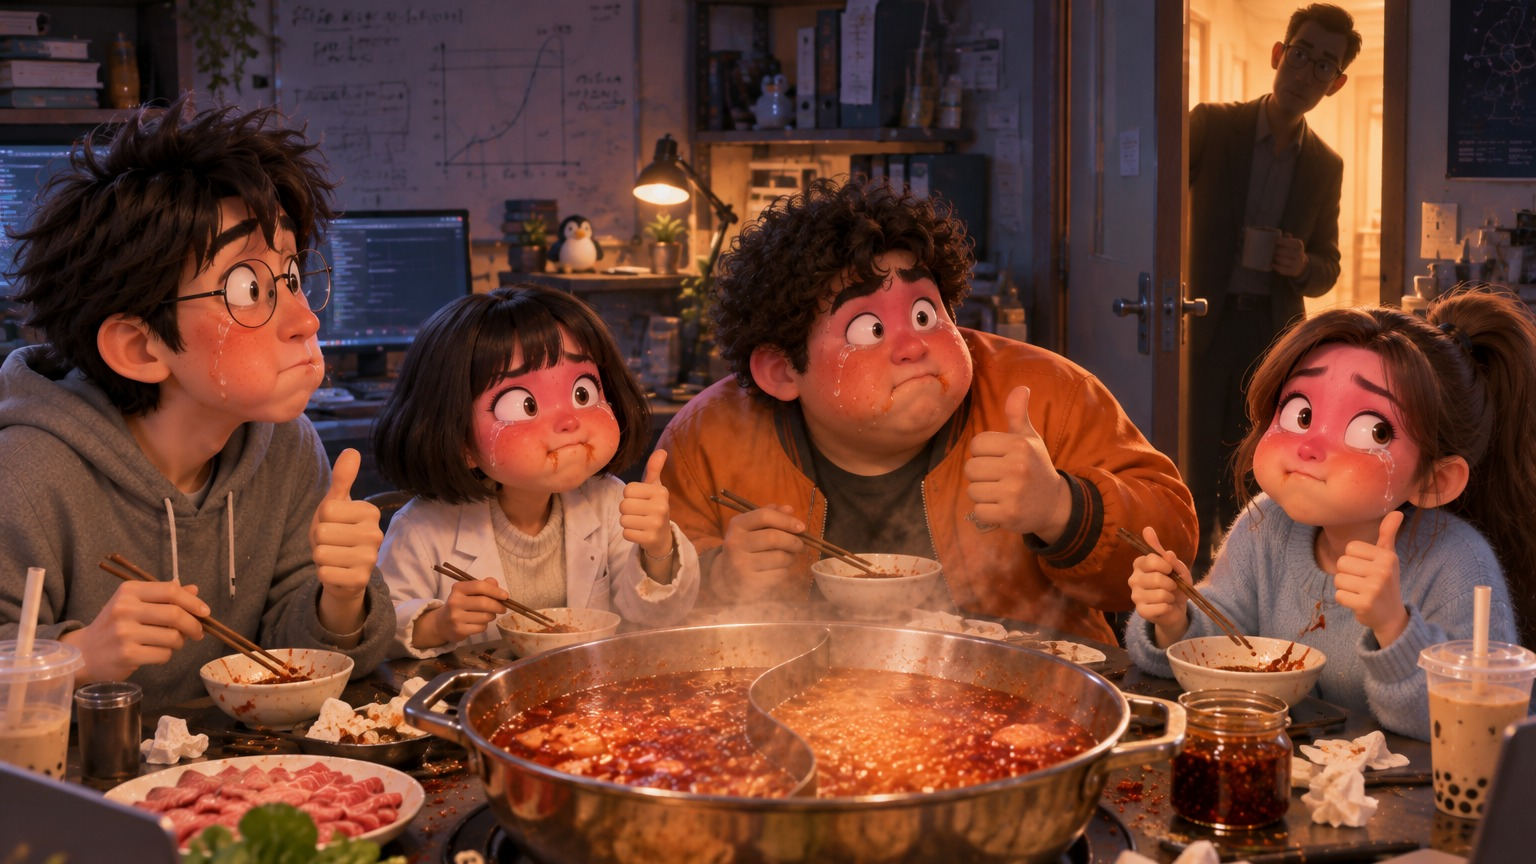
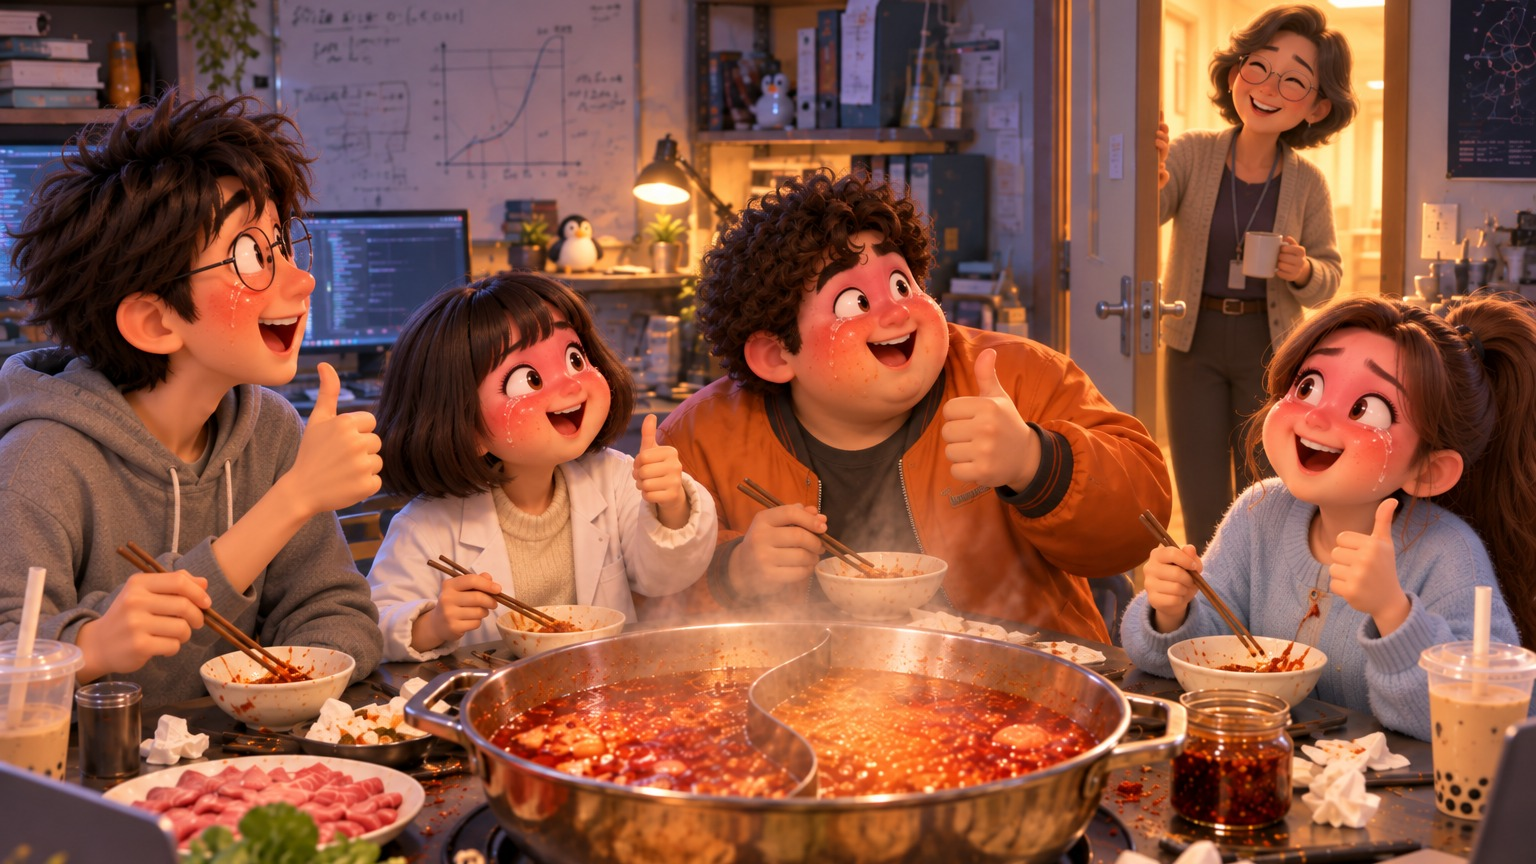
Hotpot short: new s6 first frame, prompts that pass the video safety filter
Claude-Session: https://claude.ai/code/session_0176APqbNvvxBAhP1BRct8wL

diff --git a/.claude/films/hotpot/STORYBOARD.md b/.claude/films/hotpot/STORYBOARD.md
@@ -27,5 +27,12 @@ The user generated the cast sheet and the six first frames in ChatGPT (`cast.png
 2. `Animate this image. Kai, the curly-haired student in the orange jacket, glances left and right, then quietly tips the small jar of red chili oil from his hand into the pot and whispers with a guilty grin: "One more scoop should be fine." Comedic timing, subtle camera push-in. Keep the characters exactly as in the image.`
 3. `Animate this image. The three hands take turns: each one quickly drops its spoon of red chili into the hotpot, one after another, sneaky and fast. With every spoon the broth bubbles redder. Overhead camera, quick comedic rhythm. Keep everything exactly as in the image.`
 4. `Animate this image. The red hotpot boils violently, bubbles of chili oil burst and a column of steam blasts up; the four students recoil in shock and amazement; on the monitor behind them the red curve shoots straight up. Dramatic slow camera rise. Keep the characters exactly as in the image.`
-5. `Animate this image. All four chew their first bite; their faces flush bright red, little puffs of steam pop from their ears, Mia breathes out a tiny flame, Zoe gulps her bubble tea, Leo's glasses fog up. Exaggerated cartoon reaction, comedic. Keep the characters exactly as in the image.`
-6. `Animate this image. The professor in the doorway leans in and asks: "So... did the model converge?" The four students, red-faced with tears from the spice, raise their thumbs together and answer in a choked voice: "To fire." Hold on their faces, comedic beat. Keep the characters exactly as in the image.`
+5. `Animate this image. All four take their first bite of the hotpot. Their cheeks turn rosy pink, they fan their mouths with their hands, little cartoon puffs of steam float up above their heads, Zoe quickly sips her bubble tea, and Leo's glasses fog up. Funny, exaggerated cartoon reaction, cozy and lighthearted. Keep the characters exactly as in the image.`
+6. `Animate this image. The smiling professor at the open door raises her mug and asks cheerfully: "So... did the model converge?" The four students, cheeks pink, give a big thumbs up together and answer proudly: "To fire!" Warm, lighthearted comedy. Keep the characters exactly as in the image.` (first frame `s6_new.png`)
+
+## Safety-filter notes (Vids refused these)
+- s5: "breathes out a tiny flame", "faces flush bright red" -> refused; "cheeks turn rosy pink, fan their mouths, cartoon
+  puffs of steam" passed.
+- s6: the first frame itself was refused (a faceless dark silhouette leaning in at the door reads as a lurker), with any
+  prompt. A clearly visible, smiling professor in warm light (`s6_new.png`) fixed it. Avoid tears, choking, fire on
+  people, and shadowy figures in first frames.
